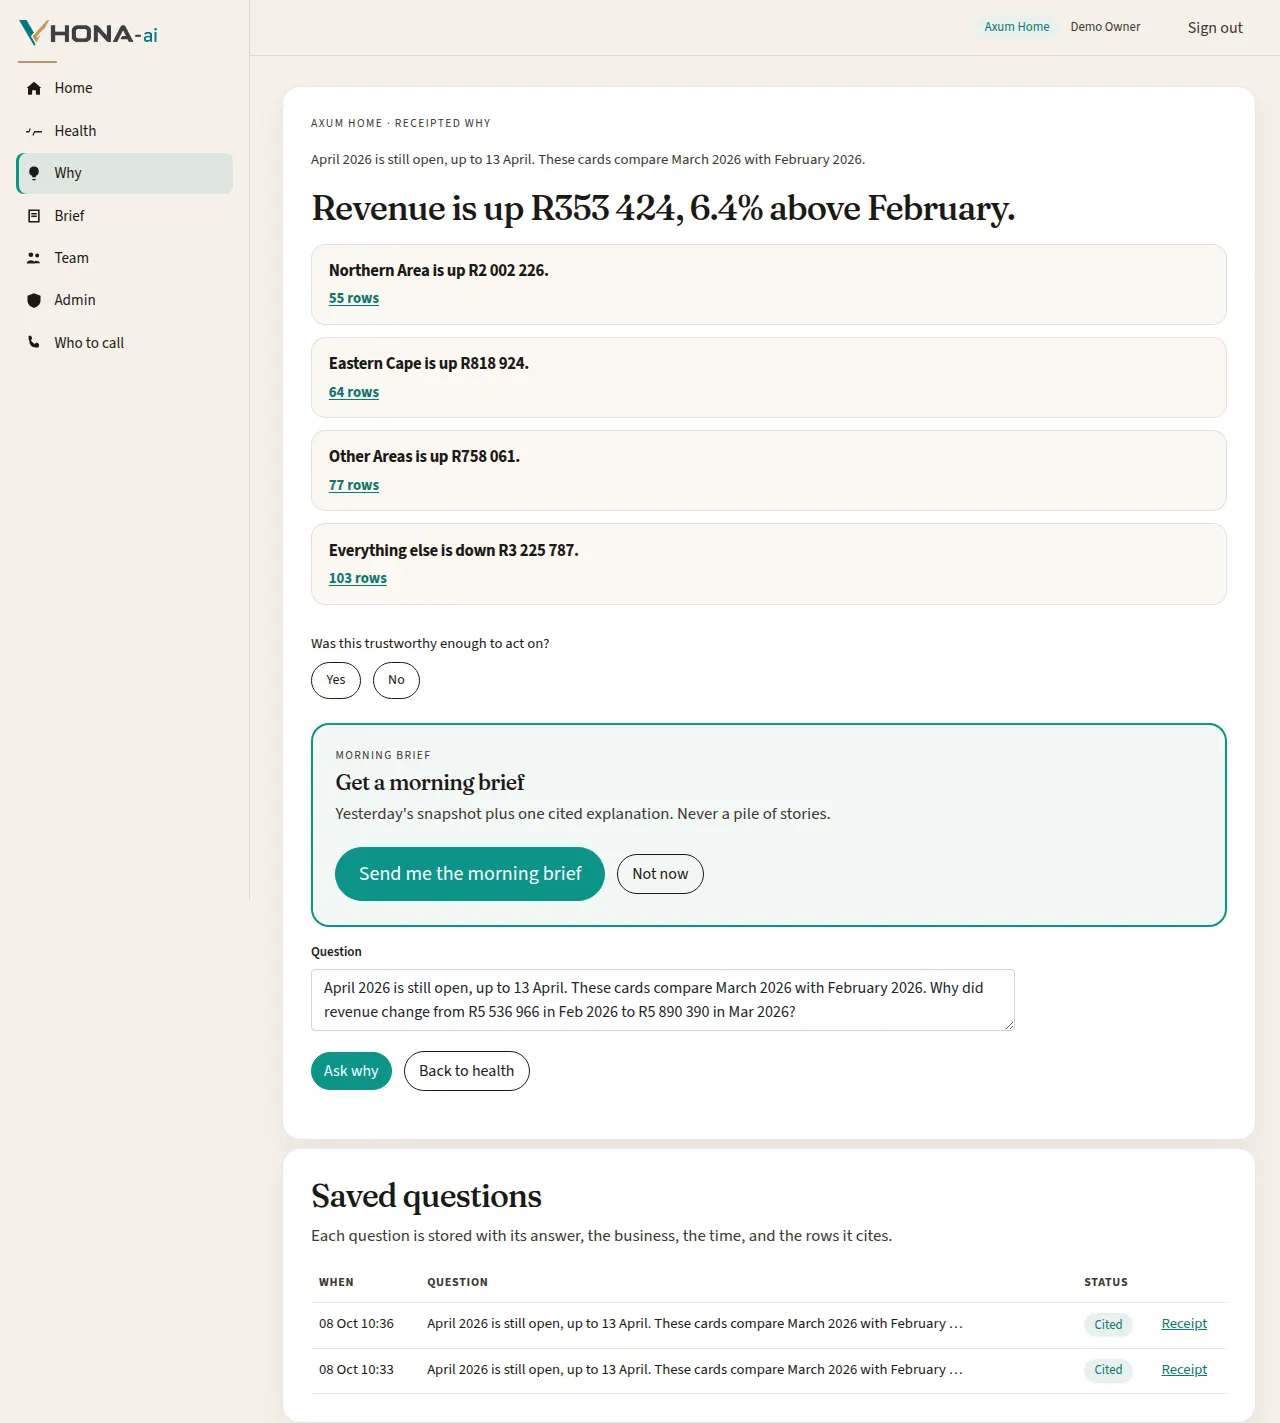
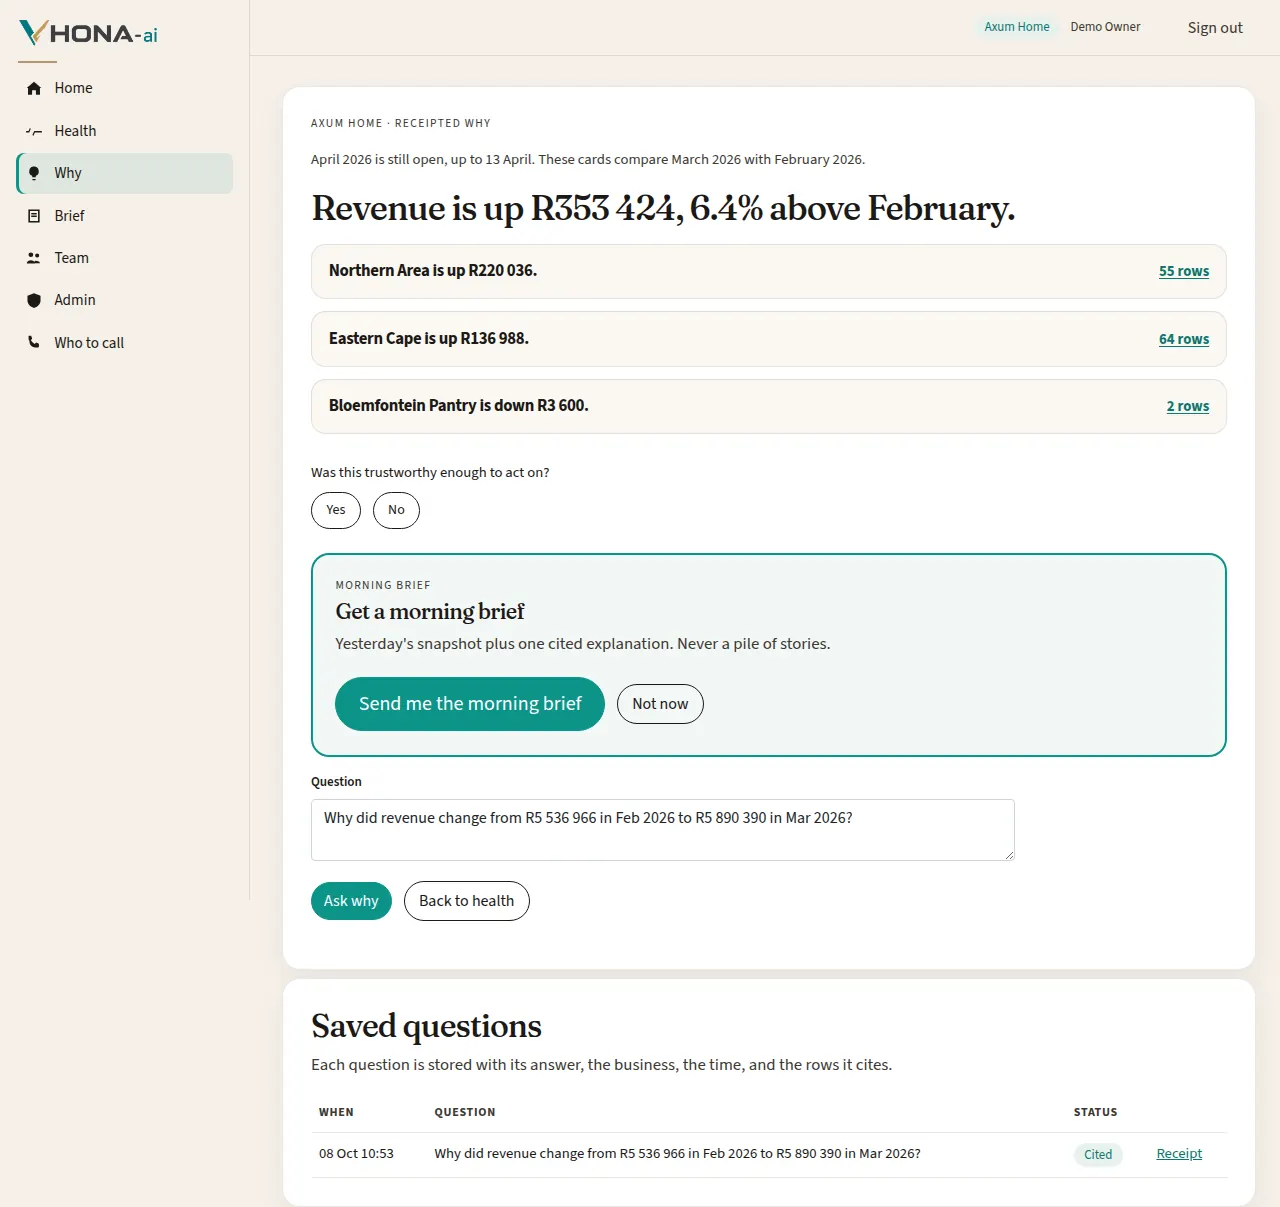
Refresh the sample screens from the revised Why page.
Karoo and Axum now show the shorter reason lines. Axum's caption names Northern Area, Eastern Cape, and the Bloemfontein drop, matching the March and February books.

diff --git a/docs/demos/axum-home/index.html b/docs/demos/axum-home/index.html
@@ -353,8 +353,8 @@
             <figcaption>Home. March revenue R5&nbsp;890&nbsp;390, expenses R5&nbsp;705&nbsp;390, profit R185&nbsp;000, cash R3&nbsp;740&nbsp;000.</figcaption>
           </figure>
           <figure>
-            <img src="app-why.webp" width="1280" height="1423" alt="Sample Why screen for Axum revenue. Revenue is up R353 424, 6.4 percent above February. Northern Area, Eastern Cape, and Other Areas are the largest movements, and Everything else holds the rest." />
-            <figcaption>Why. Revenue is up R353&nbsp;424, 6.4% above February. The largest area movements, then everything else.</figcaption>
+            <img src="app-why.webp" width="1280" height="1207" alt="Sample Why screen for Axum revenue. Revenue is up R353 424, 6.4 percent above February. Northern Area is up R220 036, Eastern Cape is up R136 988, and Bloemfontein Pantry is down R3 600. The customer names are made up." />
+            <figcaption>Why. Revenue is up R353&nbsp;424, 6.4% above February. Northern Area and Eastern Cape are up. Bloemfontein Pantry, a made up customer, is down R3&nbsp;600.</figcaption>
           </figure>
           <figure>
             <img src="app-who.webp" width="1280" height="900" alt="Sample Who to call screen for Axum Home. Kimberley Cash Store is late, Gaborone Wholesale has stopped, and Bloemfontein Pantry has dropped. The customer names are made up." />

diff --git a/docs/demos/karoo/index.html b/docs/demos/karoo/index.html
@@ -534,7 +534,7 @@
             <figcaption>Home. June revenue R741&nbsp;200, expenses R655&nbsp;100, profit R86&nbsp;100, cash R412&nbsp;300.</figcaption>
           </figure>
           <figure>
-            <img src="app-why.webp" width="1280" height="2651" alt="Sample Why screen for Karoo revenue. Revenue is down R70 800, 8.7 percent below May. Gardens, Stellenbosch, and Sea Point are the three reasons, each with its till rows." />
+            <img src="app-why.webp" width="1280" height="1159" alt="Sample Why screen for Karoo revenue. Revenue is down R70 800, 8.7 percent below May. Gardens is down R30 436, Stellenbosch is down R23 478, and Sea Point is down R16 886. Each reason has an 8 rows link." />
             <figcaption>Why. Revenue is down R70&nbsp;800, 8.7% below May, the same 8.7% the June note already states. The three branches are the reasons.</figcaption>
           </figure>
           <figure>
